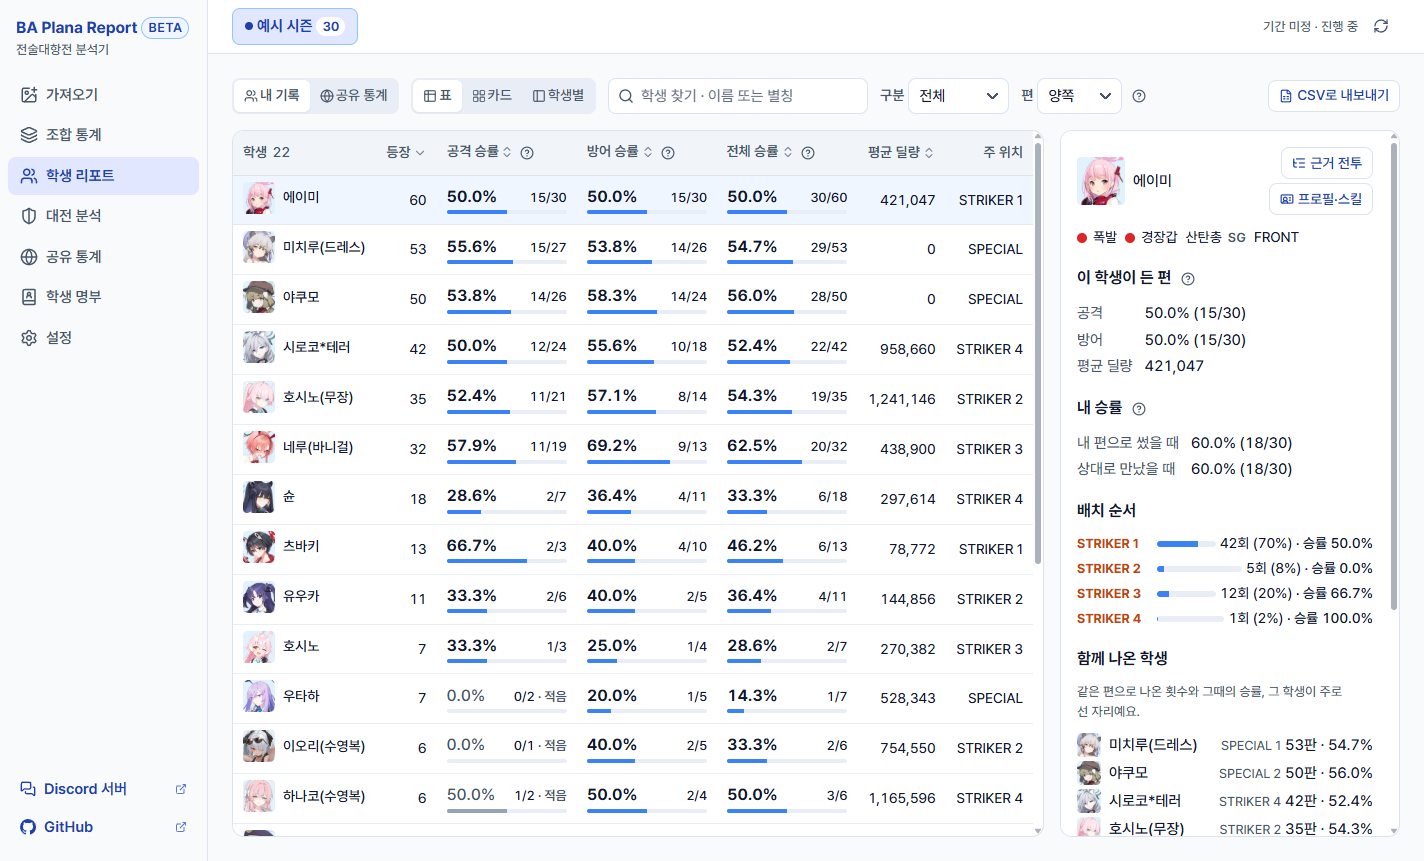
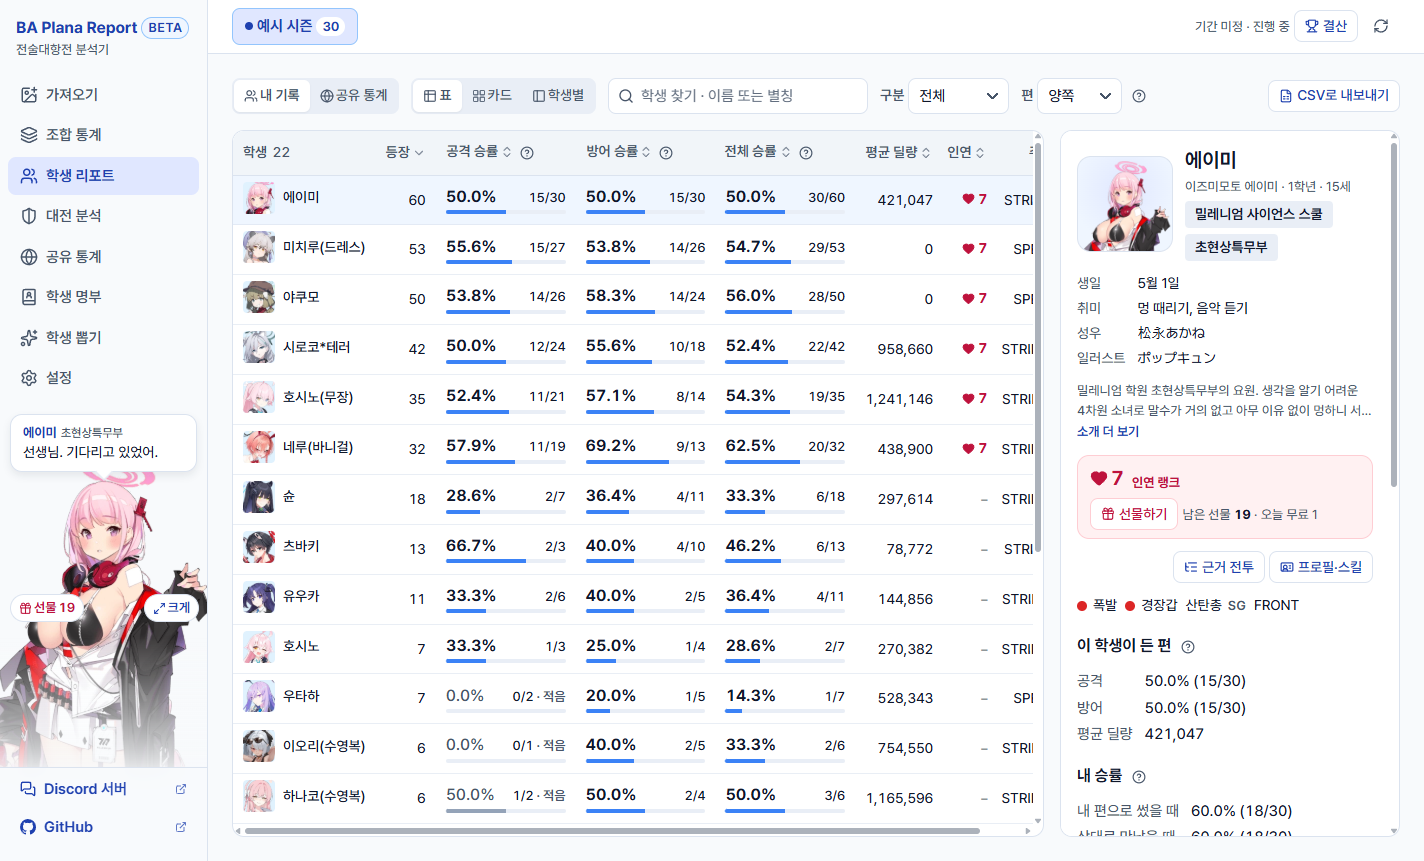
0.8.0 캡처: 당번 크게 보기·시즌 결산·학생 뽑기 추가, 나머지 화면을 새 화면(사이드바 당번, 프로필 카드·인연 랭크)으로 다시 찍음

diff --git a/README.md b/README.md
@@ -136,12 +136,18 @@
 
 ### 당번과 인연
 
+![당번 크게 보기](docs/images/duty-poster.png)
+
 - **당번**: 왼쪽 메뉴 아래에 학생이 서서 말을 겁니다. 누르면 다음 대사, **크게**를 누르면 학생 정보(학년·학교·동아리·생일·취미·소개)와 함께한 전술대항전을 큰 그림과 함께 봅니다. 당번은 앱을 열 때마다 바뀌고(즐겨찾기한 학생이 있으면 그중에서, 오늘 생일인 학생 먼저), 설정에서 직접 고르거나 끌 수 있습니다. 창이 낮아 자리가 모자라면 그리지 않습니다. 대사는 글자만 쓰고 음성은 쓰지 않습니다.
 - **인연 랭크**: 학생 프로필 카드에 인연 랭크가 있습니다. 내 편으로 출전하면 1점, 이기면 1점이 더해지고, 당번 근무(+2)·말 걸기(+1)·선물(+3)·생일 축하(+10)로도 오릅니다(근무·말 걸기·생일은 학생마다 하루 한 번). 선물은 하루 1개가 무료이고 내 편이 이긴 판마다 1개씩 쌓여, 모아 두었다가 한 학생에게 몰아줄 수도 있습니다. 랭크가 오르면 그 학생의 인연 대사 카드가 뜹니다.
 - **승리 대사와 모모톡**: 이긴 판을 저장하면 그 판 내 편 학생의 승리 대사 카드가, 여러 판을 한꺼번에 저장하면 당번이 보내는 모모톡 정리가 뜹니다.
 - **시즌 결산**: 시즌 줄의 **결산**에서 그 시즌 내 편 기록을 담은 활동 보고서를 그림으로 저장하거나 글로 복사합니다. 공식 시즌이 끝난 뒤 처음 열면 한 번 알려 줍니다.
 - **학생 뽑기**: 학생이 한 장씩 지나가다 멈추면 모집 대사가 나옵니다. 누가 나올지는 멈추는 순간 정해집니다. 결과는 이미지로 저장하거나 당번으로 세울 수 있습니다.
 - **학생 앨범과 즐겨찾기**: 학생 리포트의 카드 보기는 상반신·인연 랭크·판수·승률을 담은 앨범입니다. 학생 명부에서 별을 눌러 즐겨찾기할 수 있습니다(보유 학생처럼 로그인하면 동기화).
+
+![시즌 결산 활동 보고서 (공유 그림)](docs/images/recap.png)
+
+![학생 뽑기](docs/images/gacha.png)
 
 ### 공유 통계 (선택)
 
